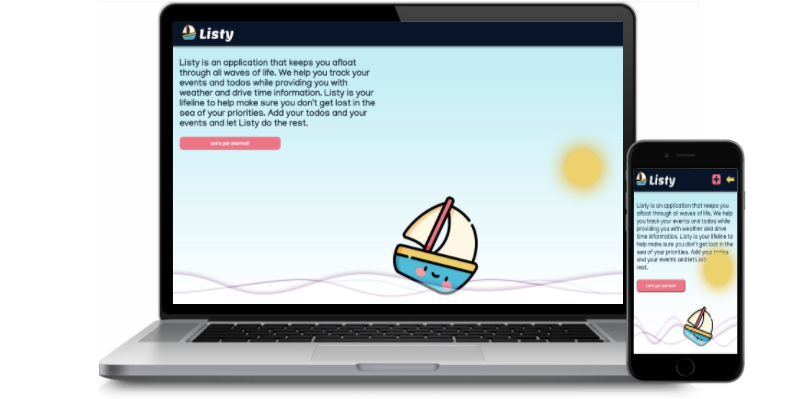
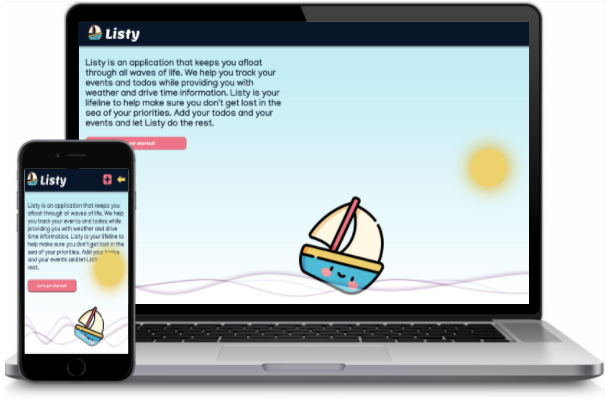
added new pictures for projects and styled them to match

diff --git a/src/app/projects/projects.component.css b/src/app/projects/projects.component.css
@@ -31,12 +31,13 @@ main {
 }
 h3 {
   font-family: "Rock Salt";
-  font-size: 30px;
+  font-size: 25px;
   padding: 50px 0px 10px 0px;
   color: yellow;
 }
 h4 {
   font-family: "Rock Salt";
+  text-align: center;
 }
 .computer {
   align-self: center;
@@ -49,10 +50,10 @@ h4 {
 }
 .coverPic {
   z-index: 1;
-  left: 42.5%;
+
   /* transform: translateX(-75px); */
   /* top: 26px; */
-  width: 100%;
+  width: 80%;
   /* height: 200px; */
   /* width: 186px;
   height: 117px; */
@@ -223,12 +224,12 @@ footer {
   }
   .coverPic {
     top: 30px;
-    width: 300px;
+    width: 50%;
     /* width: 40%; */
     /* transform: translateX(-150.5px);
     left: 200px; */
     margin-bottom: 10px;
-    border: 1px solid red;
+
     /* height: 190px; */
   }
 
@@ -252,8 +253,7 @@ footer {
     transform: scale(1.05);
   }
   #projectInfo {
-    border: 1px solid blue;
-    flex: 1;
+    width: 55%;
     /* width: 70%; */
   }
   h3 {
@@ -347,12 +347,14 @@ footer {
 }
 @media screen and (min-width: 1100px) {
   .coverPic {
-    width: 550px;
+    width: 450px;
 
     margin-bottom: 10px;
     /* height: 190px; */
   }
+  h4 {
+    font-size: 25px;
+  }
   .project {
-    height: 400px;
   }
 }

diff --git a/src/app/services/projects.service.ts b/src/app/services/projects.service.ts
@@ -22,7 +22,7 @@ export class ProjectsService {
     },
     {
       projectName: "Portfolio Site",
-      coverPic: "./../../assets/projects/portfolio.png",
+      coverPic: "./../../assets/projects/porfolio.png",
       extension: "/portfolio-site",
       elevator:
         "This portfolio was a lot of fun to build. My goal was to create a simple site to showcase my skills as a Frontend Developer, and to create a one-stop shop for my projects, my background, and a simple contact form.",
